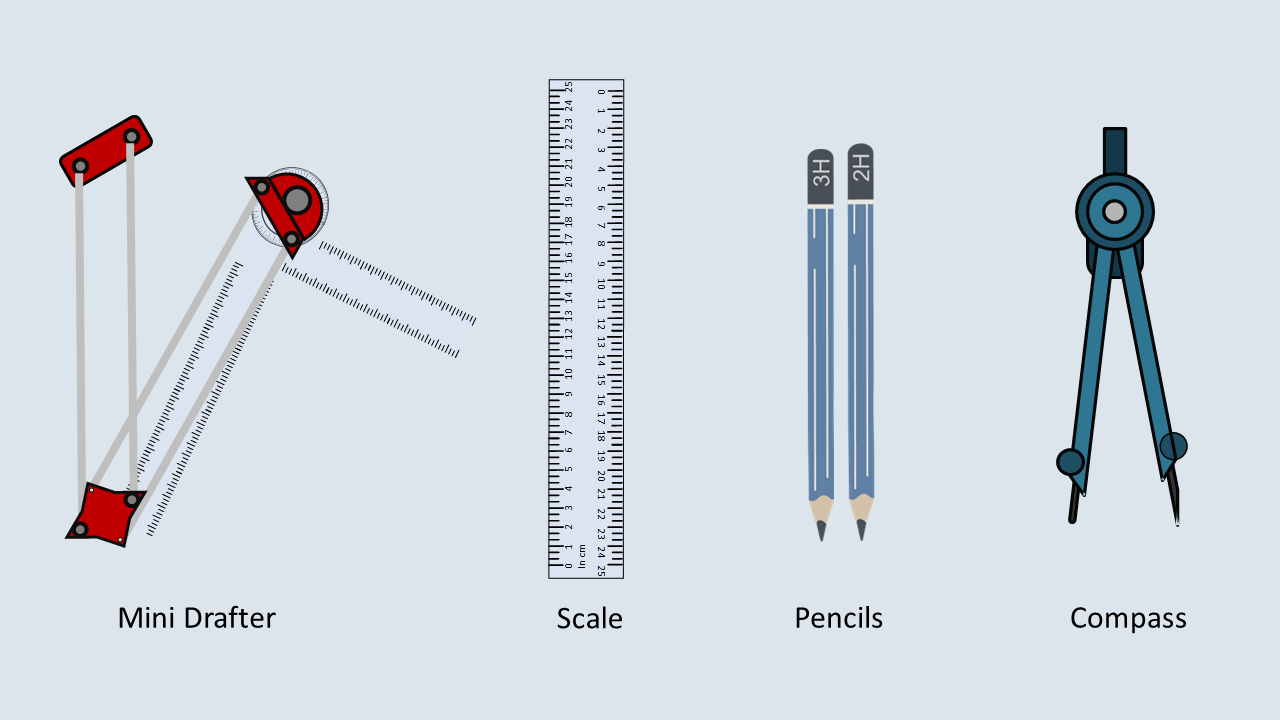
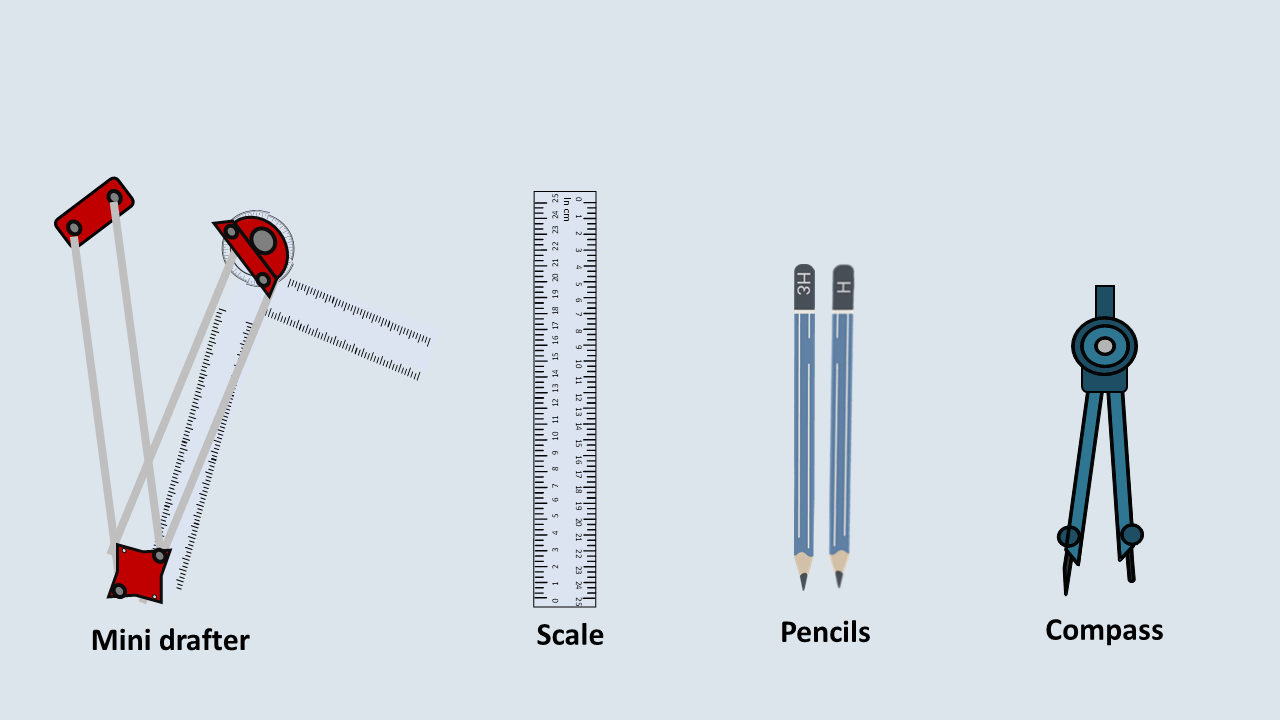
added exp2

diff --git a/experiment/simulation/js/exp2.js b/experiment/simulation/js/exp2.js
@@ -1,0 +1,7 @@
+const png1Step1 = document.querySelector("#png1-step1");
+const trans1Step1 = document.querySelector("#trans1-step1");
+
+addEventListener("DOMContentLoaded", () =>{
+    png1Step1.style.visibility = "visible";
+    trans1Step1.style.visibility = "visible";
+});

diff --git a/experiment/simulation/css/starter.css b/experiment/simulation/css/starter.css
@@ -6,10 +6,10 @@
 
 .starter-png1{
     position: absolute;
-    width: 400px;
+    width: 350px;
     height: 400px;
-    top: 100px;
-    left: 200px;
+    top: 90px;
+    left: 220px;
 }
 
 #mainPageImgExp1{
